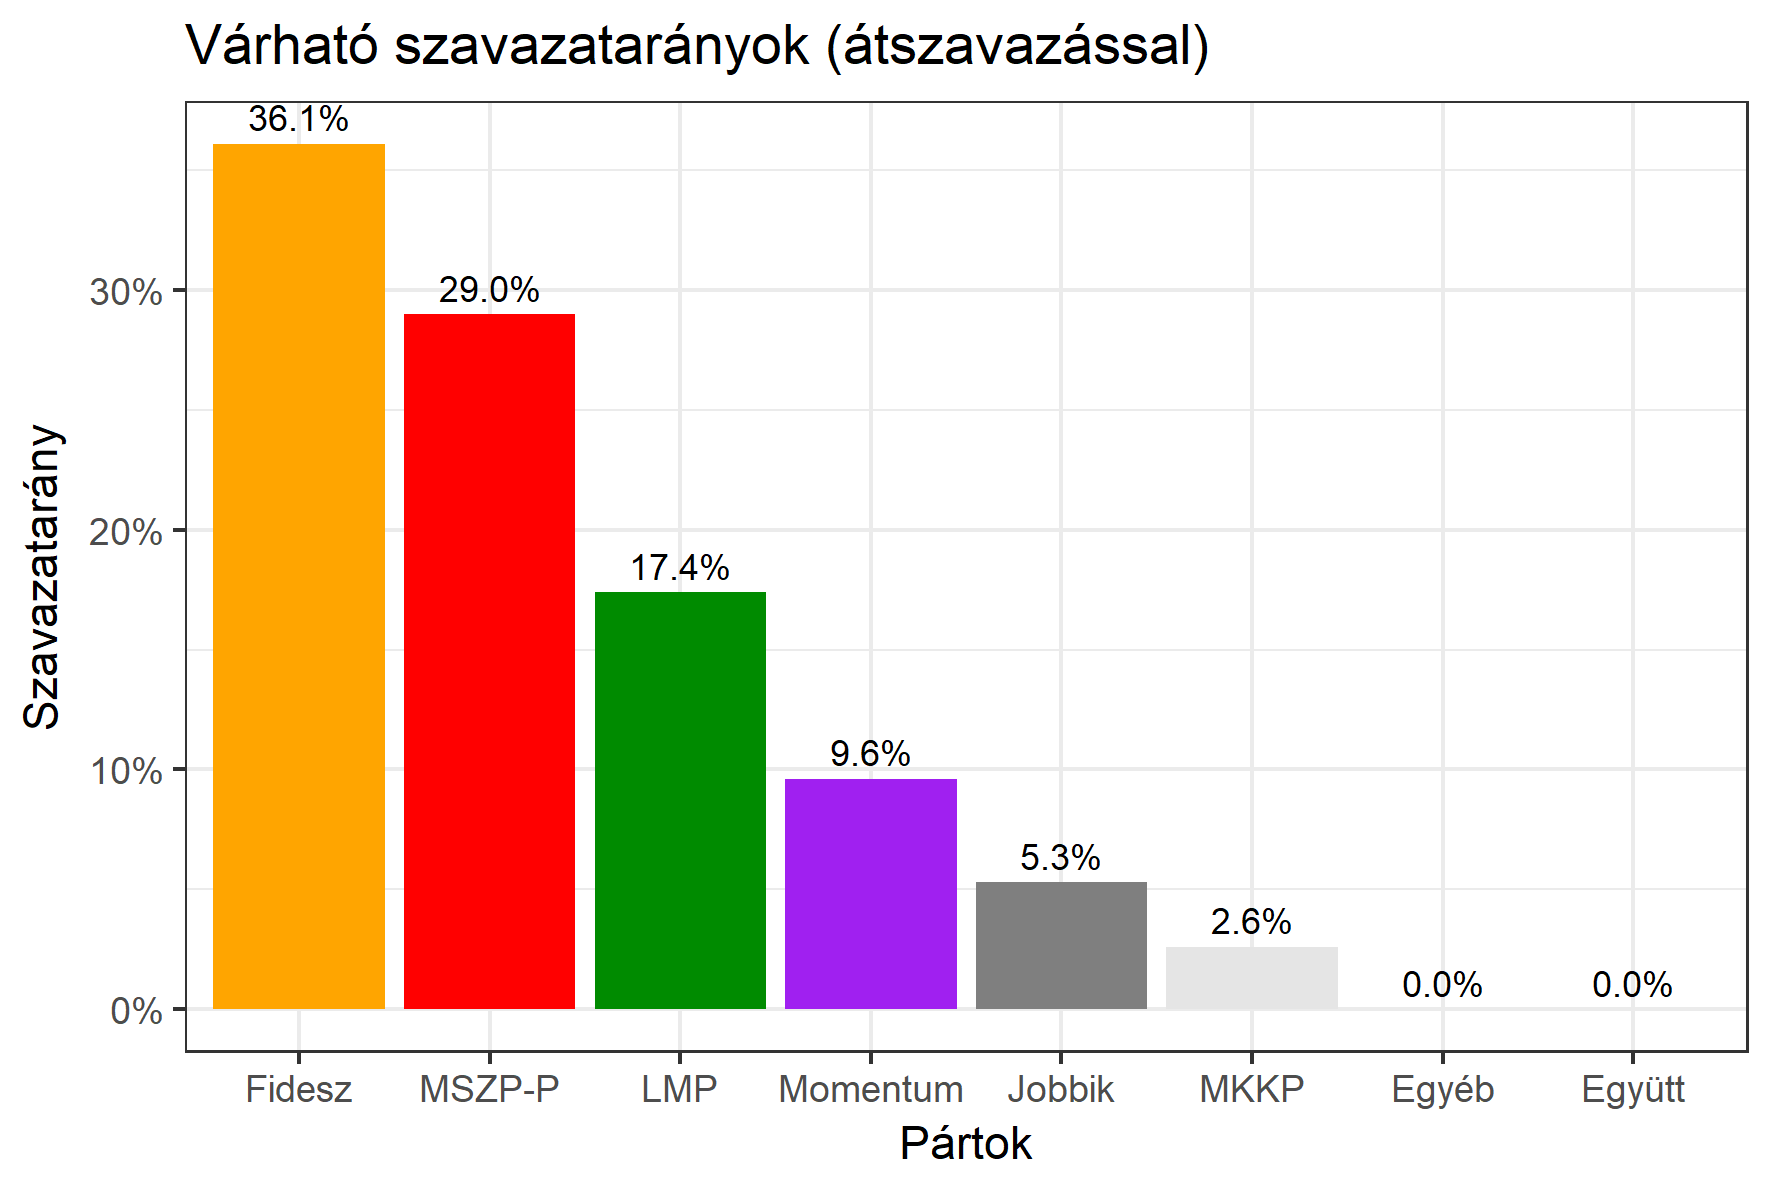
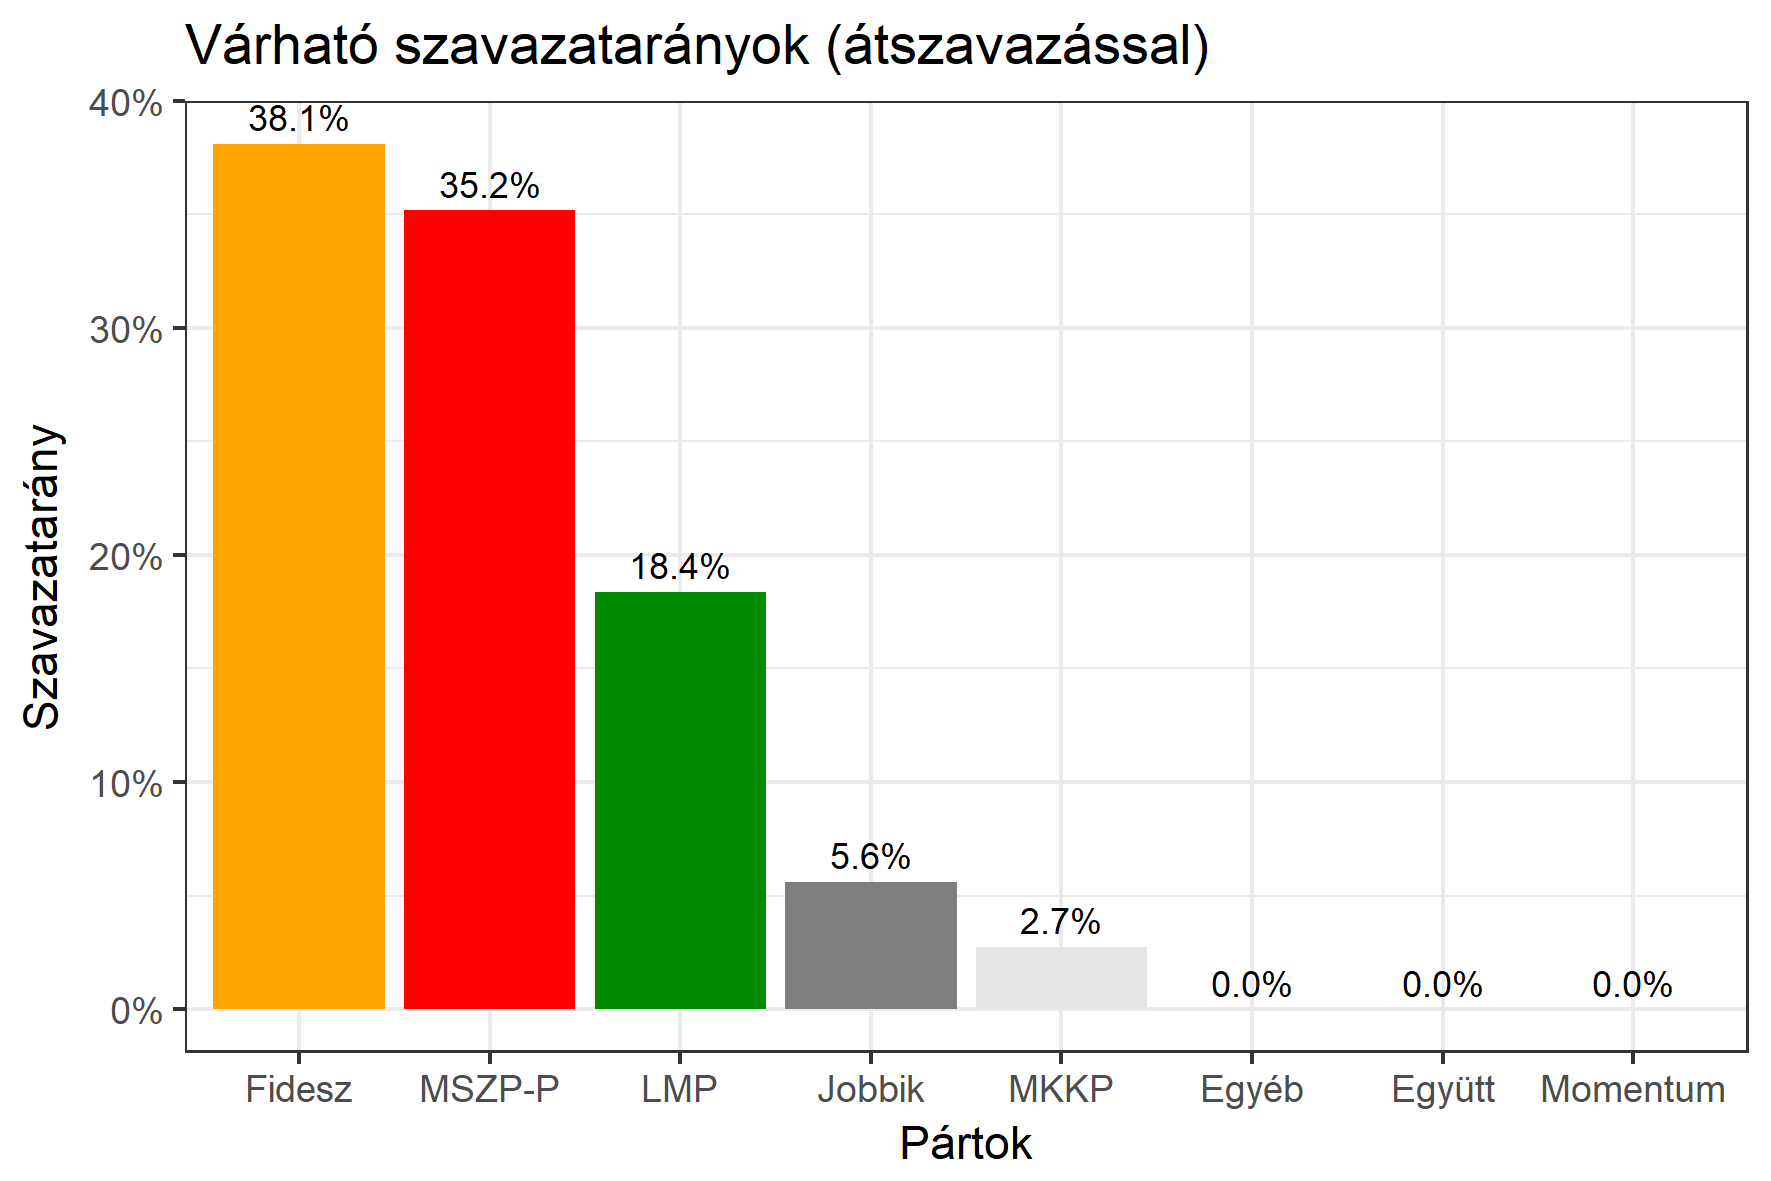
bp1 update

diff --git a/bp1.md b/bp1.md
@@ -20,31 +20,27 @@ permalink: /bp1
               <thead>
                 <tr>
                     <th>Jelöltek</th>
-                    <th>Várható szavazatarány egyéniben (zárójelben az arányok átszavazás esetén)</th>
+                    <th>Várható szavazatarány egyéniben (zárójelben az arányok átszavazás esetén) - FRISSÍTVE!</th>
                 </tr>
               </thead>
               <tbody>
              <tr>
                   <td>Hollik István  - Fidesz-KDNP <img src="images/fideszkdnp_logo.png" style="width:55px;height:30px;"></td>
-				   <td id="id_fidesz">35.5% &emsp; <span id="id_fidesz2">(36.1%)</span></td>
+				   <td id="id_fidesz">35.5% &emsp; <span id="id_fidesz2">(38.1%)</span></td>
 			</tr>
 			<tr>
 <td>Losonczy Pál - Jobbik <img src="images/jobbik_logo.png" style="width:23px;height:30px;"></td>
- <td id="id_jobbik">7.0% &emsp; <span id="id_jobbik2">(5.3%)</span></td></tr>
+ <td id="id_jobbik">7.0% &emsp; <span id="id_jobbik2">(5.6%)</span></td></tr>
 			<tr>
 <td>Váradiné Naszály Márta - MSZP-Párbeszéd <img src="images/mszpparbeszed_logo.png" style="width:60px;height:30px;"></td>
- <td id="id_baloldal">20.0% &emsp; <span id="id_baloldal2">(29.0%)</span></td></tr>
+ <td id="id_baloldal">20.0% &emsp; <span id="id_baloldal2">(35.2%)</span></td></tr>
 			<tr>
                   <td>Csárdi Antal - LMP <img src="images/lmp_logo.png" style="width:52px;height:30px;"></td>
-				   <td id="id_lmp">19.2% &emsp; <span id="id_lmp2">(17.4%)</span></td>
-			</tr>
-			<tr>
-				  <td><strong>VISSZALÉPETT AZ MSZP-PÁRBESZÉD JAVÁRA - Momentum</strong> <img src="images/momentum_logo.png" style="width:44px;height:30px;"></td>
-				   <td id="id_momentum">10.6% &emsp; <span id="id_momentum2">(9.6%)</span></td>
+				   <td id="id_lmp">19.2% &emsp; <span id="id_lmp2">(18.4%)</span></td>
 			</tr>
 <tr>
                   <td>Horváth András - MKKP <img src="images/mkkp_logo.png" style="width:49px;height:30px;"></td>
-				   <td id="id_mkkp">3.2% &emsp; <span id="id_mkkp2">(2.6%)</span></td>
+				   <td id="id_mkkp">3.2% &emsp; <span id="id_mkkp2">(2.7%)</span></td>
 			</tr>			
               </tbody>
             </table><h5>Várható győztes: <span id="gyoztes">Fidesz</span><span id="esely"></span><span></span></h5>
